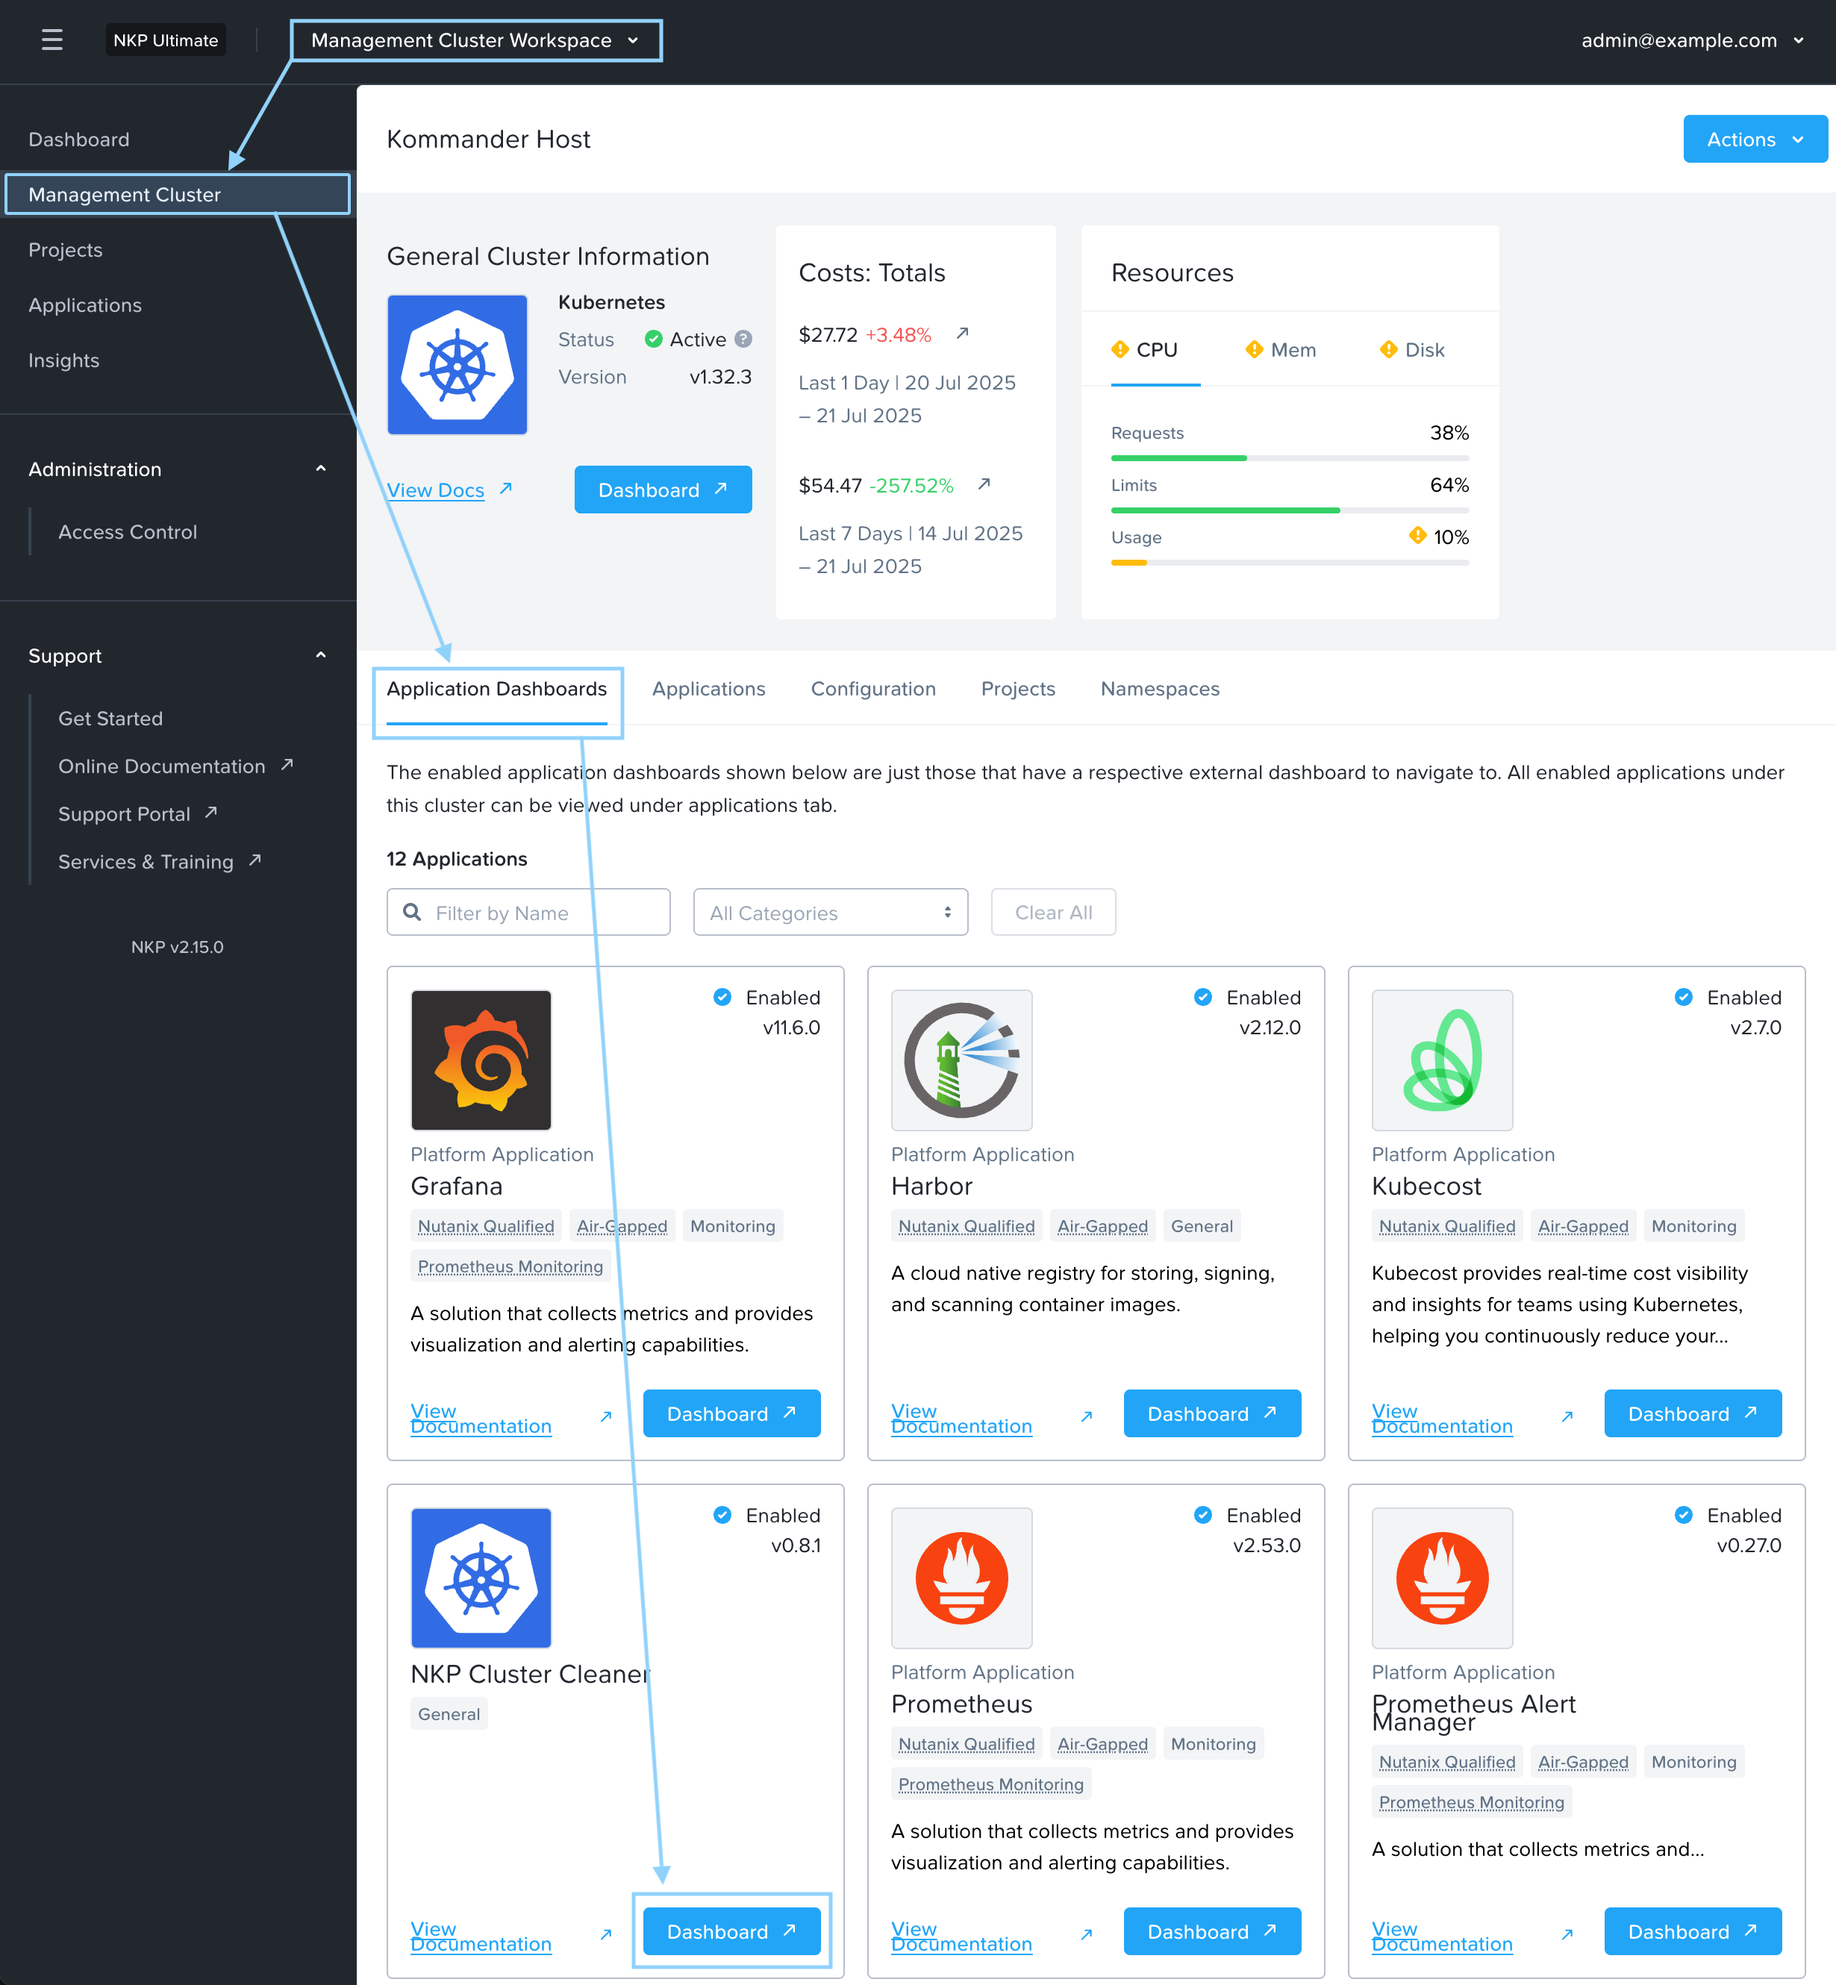
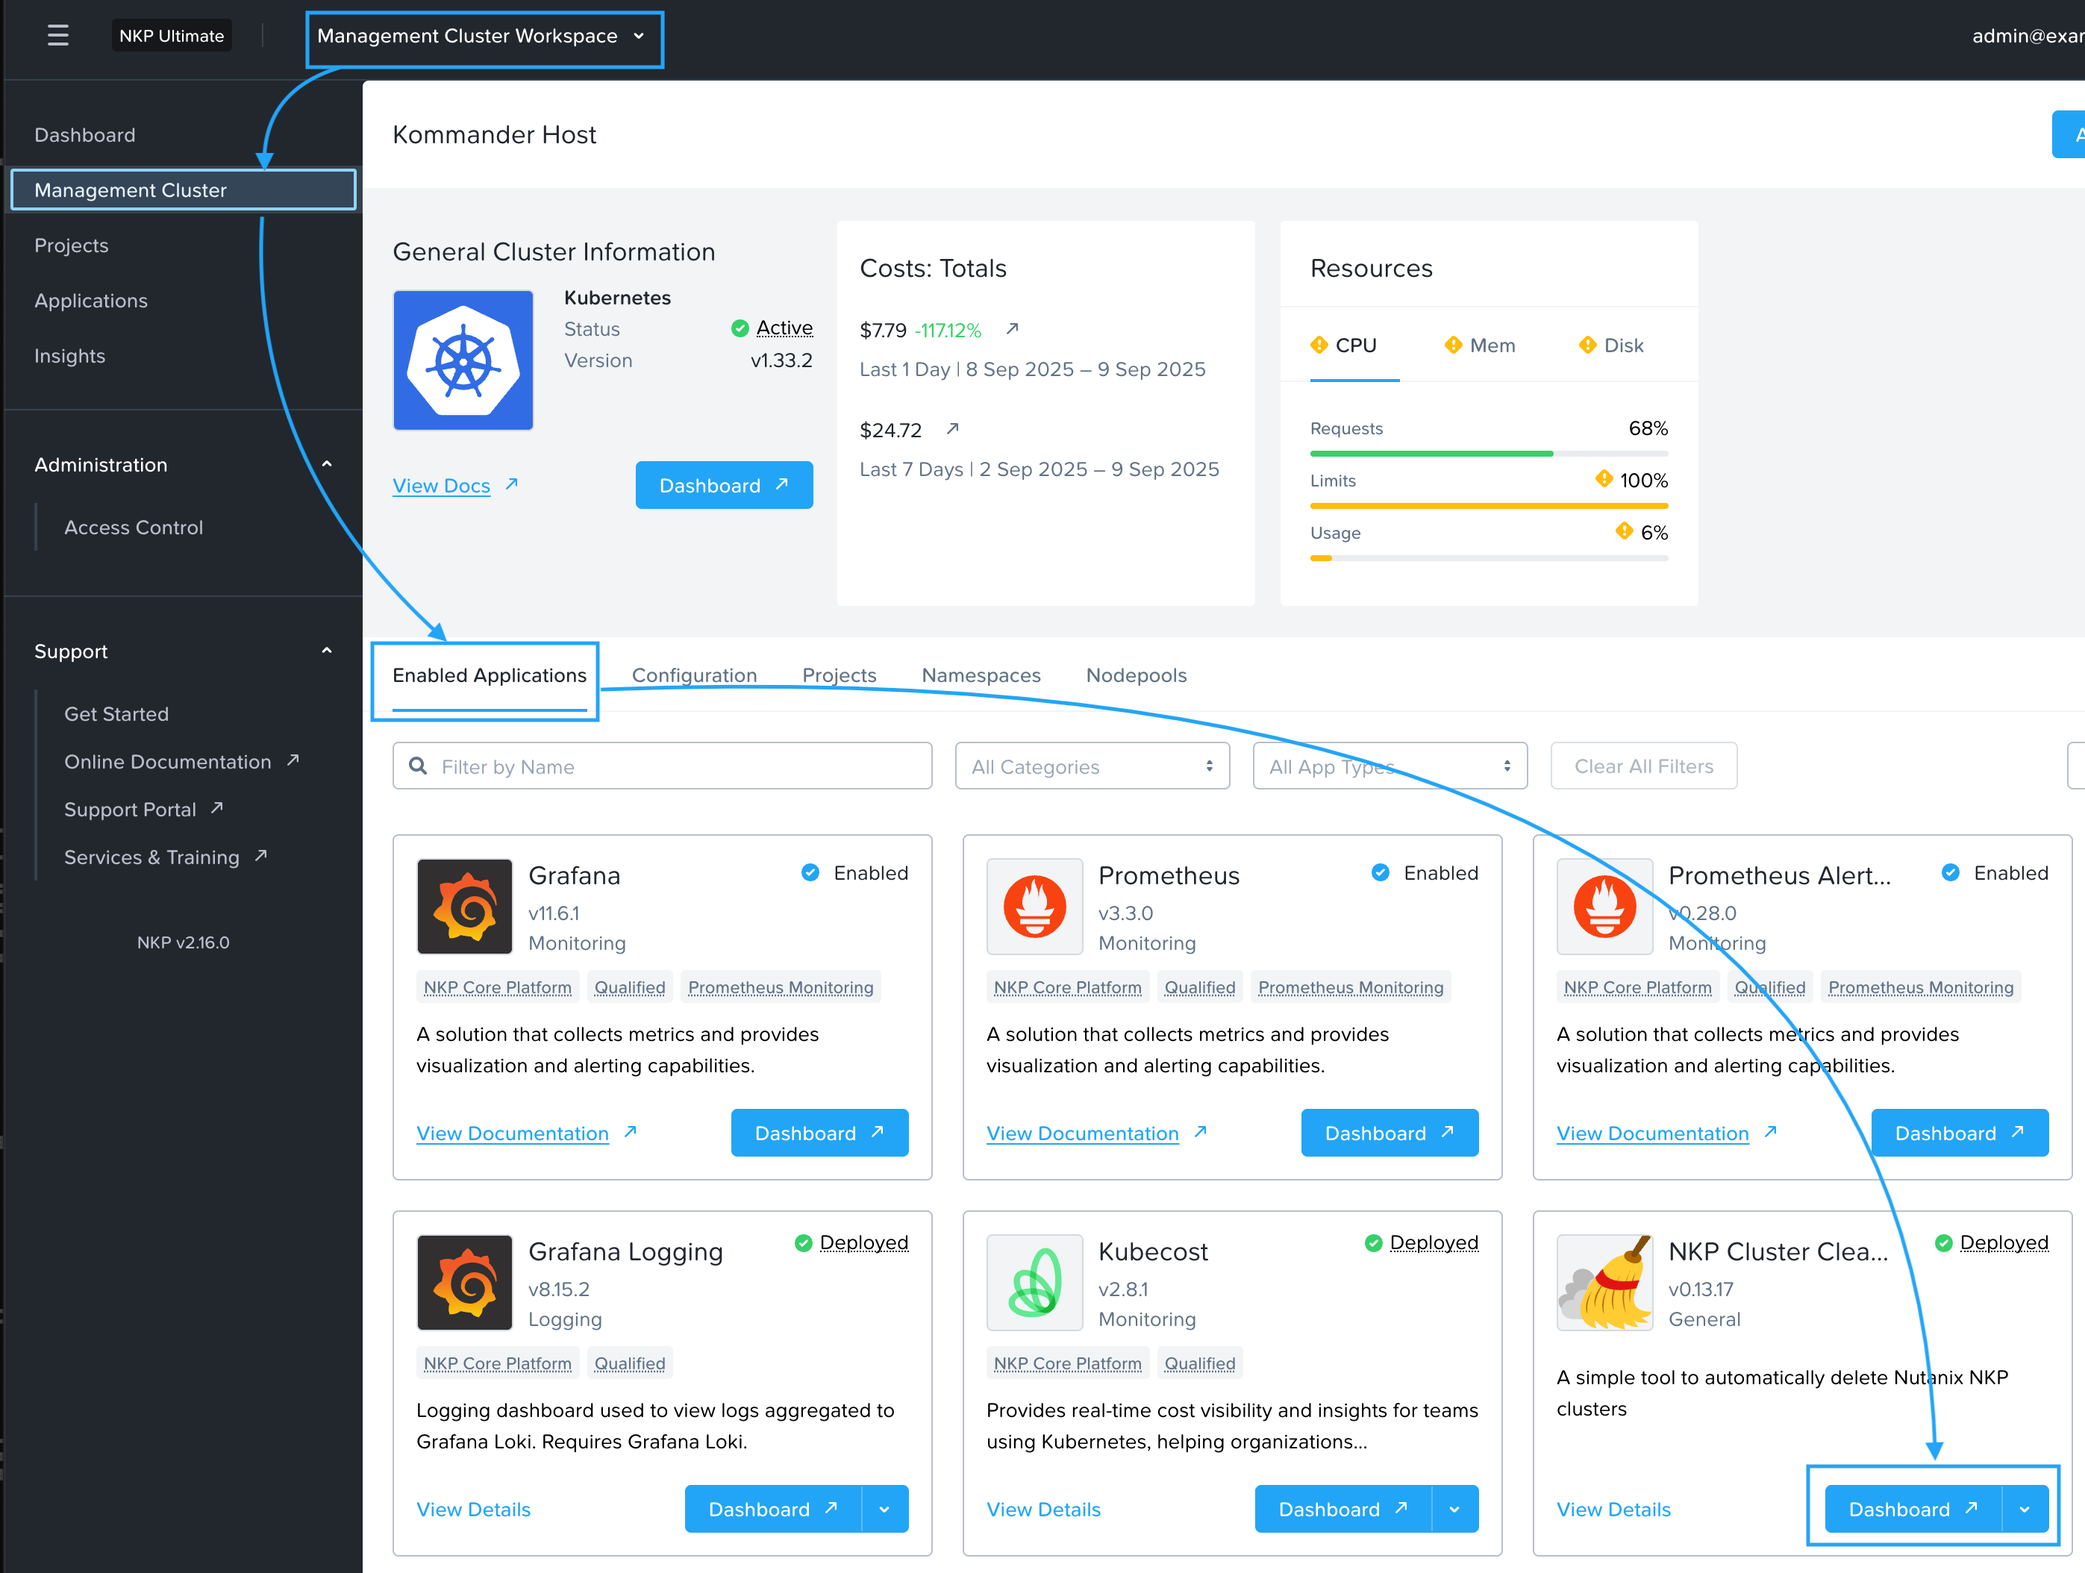
docs [skip ci]

diff --git a/docs/nkp.md b/docs/nkp.md
@@ -36,7 +36,12 @@ nkp create catalog nkp-cluster-cleaner \
     --url https://github.com/markround/nkp-cluster-cleaner
 ```
 
-You can then select the application in the Management Cluster Workspace and enable it. After it has been deployed, the dashboard can be accessed in the usual way, e.g. by browsing to the Management Cluster and selecting the Application Dashboards tab:
+You can then select the application in the Management Cluster Workspace and enable it. 
+
+> [!NOTE]
+> In NKP 2.16, the application may be available in other workspaces. Only enable the application in the Management Cluster Workspace - It will **not** work in any other workspace, and can only run on the Management Cluster. 
+
+After it has been deployed, the dashboard can be accessed in the usual way, e.g. by browsing to the Management Cluster and selecting the Applications tab (or "Application Dashboards" in older releases):
 
 <img src="/docs/dashboard.png" width="400">
 
